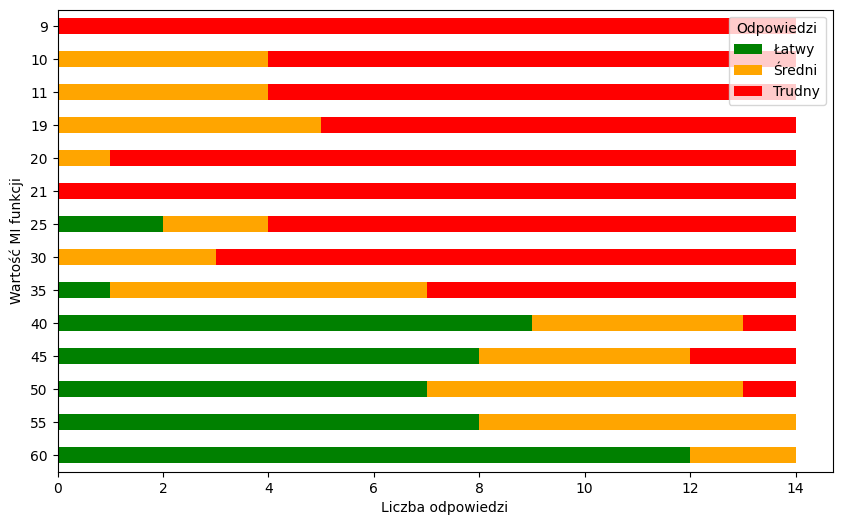
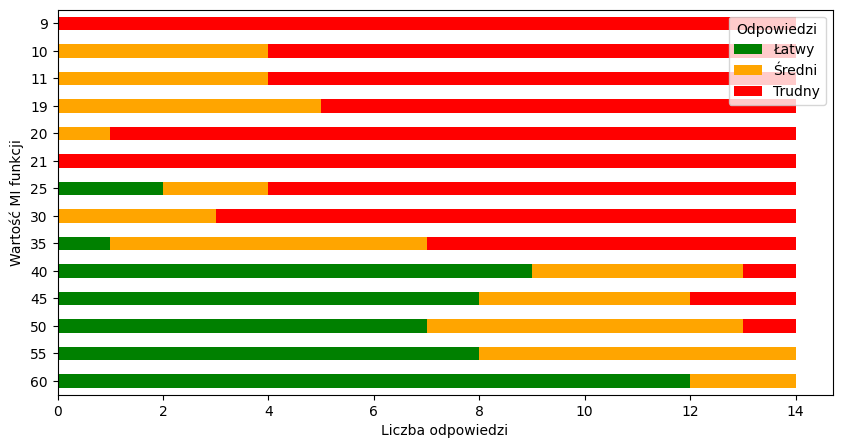
update diagrams

diff --git a/form_results/show_results.py b/form_results/show_results.py
@@ -17,7 +17,7 @@ df_filtered = df_filtered.sort_index(axis=1, ascending=False)
 
 counts = df_filtered.apply(pd.Series.value_counts).fillna(0).loc[[1, 2, 3]]
 
-fig, ax = plt.subplots(figsize=(10, 6))
+fig, ax = plt.subplots(figsize=(10, 5))
 counts.T.plot(kind='barh', stacked=True, ax=ax, color=['green', 'orange', 'red'])
 
 ax.set_xlabel('Liczba odpowiedzi')
@@ -41,18 +41,22 @@ y = 100 * (final_values.values / float(len(x)))
 fit = np.polyfit(x, y, 1)
 fit_fn = np.poly1d(fit)
 
-target_y_values = [0, 50, 100]
-colors = ['green', '#cb8300', 'red']
+target_y_values = [0, 50]
+colors = ['orange', 'red']
+thresholds = [
+    'próg pomarańczowy - średni w utrzymaniu',
+    'próg czerwony - trudny w utrzymaniu'
+]
 
 x_values_for_target_y = [(target - fit[1]) / fit[0] for target in target_y_values]
 
-plt.figure(figsize=(10, 6))
+plt.figure(figsize=(10, 4))
 plt.plot(x, y, 'o', label='Procent odpowiedzi')
 plt.plot(x, fit_fn(x), 'black', label='Linia trendu', linewidth=0.5)
 
 plt.plot(x_values_for_target_y, target_y_values, "-", color='black', linewidth=0.5)
-for x_val, y_val, color in zip(x_values_for_target_y, target_y_values, colors):
-    plt.plot(x_val, y_val, "o", color=color)
+for x_val, y_val, color, threshold in zip(x_values_for_target_y, target_y_values, colors, thresholds):
+    plt.plot(x_val, y_val, "o", color=color, label=threshold)
     plt.annotate(f'{x_val:.1f}', (x_val, y_val), textcoords="offset points", xytext=(8, 8), ha='center', color=color)
 plt.xlabel('Indeks Utrzymywalności (MI)')
 plt.ylabel('Procent odpowiedzi (%)')
